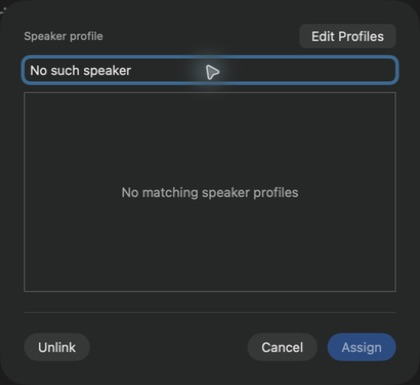
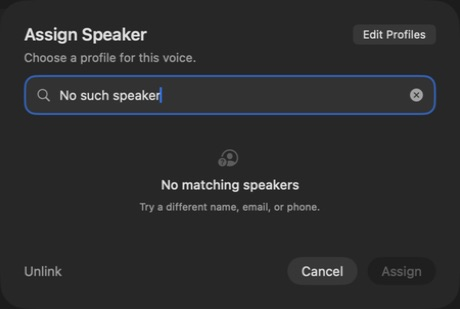
Refine speaker search with native macOS 26 styling

diff --git a/Sources/Stillnote/Views/SpeakerEditor.swift b/Sources/Stillnote/Views/SpeakerEditor.swift
@@ -33,8 +33,12 @@ struct SpeakerEditor: View {
     var body: some View {
         VStack(alignment: .leading, spacing: 20) {
             VStack(alignment: .leading, spacing: 10) {
-                HStack {
-                    Text("Speaker profile").font(.subheadline).foregroundStyle(.secondary)
+                HStack(alignment: .top, spacing: 16) {
+                    VStack(alignment: .leading, spacing: 5) {
+                        Text("Assign Speaker").font(.title2.weight(.semibold))
+                        Text("Choose a profile for this voice.")
+                            .font(.callout).foregroundStyle(.secondary)
+                    }
                     Spacer()
                     Button("Edit Profiles") {
                         model.requestedSpeakerProfileID = selectedProfile?.id
@@ -42,6 +46,7 @@ struct SpeakerEditor: View {
                         dismiss()
                         openSettings()
                     }
+                    .controlSize(.small)
                     .help("Open speaker profile settings")
                 }
                 if model.speakerProfiles.isEmpty {
@@ -49,56 +54,96 @@ struct SpeakerEditor: View {
                         .font(.callout).foregroundStyle(.secondary)
                         .frame(maxWidth: .infinity, minHeight: 120)
                 } else {
-                    TextField("Search by name, email, or phone", text: $profileSearch)
-                        .textFieldStyle(.roundedBorder)
-                        .accessibilityLabel("Search speaker profiles")
-                        .focused($searchFocused)
-                        .disabled(unavailable)
-                        .onChange(of: profileSearch) {
-                            // A hidden selection must never remain assignable after filtering.
-                            if !matchingProfiles.contains(where: { $0.id == selectedProfileID }) {
-                                selectedProfileID = nil
+                    HStack(spacing: 8) {
+                        Image(systemName: "magnifyingglass")
+                            .foregroundStyle(.secondary)
+                            .accessibilityHidden(true)
+                        TextField("Search name, email, or phone", text: $profileSearch)
+                            .textFieldStyle(.plain)
+                            .accessibilityLabel("Search speaker profiles")
+                            .focused($searchFocused)
+                        if !profileSearch.isEmpty {
+                            Button {
+                                profileSearch = ""
+                                searchFocused = true
+                            } label: {
+                                Image(systemName: "xmark.circle.fill")
+                                    .foregroundStyle(.secondary)
                             }
+                            .buttonStyle(.plain)
+                            .accessibilityLabel("Clear search")
                         }
+                    }
+                    .font(.body)
+                    .padding(12)
+                    .background(.quaternary.opacity(0.5), in: .rect(cornerRadius: 12))
+                    .overlay {
+                        RoundedRectangle(cornerRadius: 12)
+                            .strokeBorder(searchFocused ? Color.accentColor.opacity(0.65) : .clear, lineWidth: 2)
+                            .allowsHitTesting(false)
+                    }
+                    .disabled(unavailable)
+                    .onChange(of: profileSearch) {
+                        // A hidden selection must never remain assignable after filtering.
+                        if !matchingProfiles.contains(where: { $0.id == selectedProfileID }) {
+                            selectedProfileID = nil
+                        }
+                    }
                     List(selection: $selectedProfileID) {
                         ForEach(matchingProfiles) { profile in
-                            VStack(alignment: .leading, spacing: 3) {
-                                Text(profile.name)
-                                if !profile.email.isEmpty {
-                                    Text(profile.email).font(.caption).foregroundStyle(.secondary)
-                                } else if !profile.phone.isEmpty {
-                                    Text(profile.phone).font(.caption).foregroundStyle(.secondary)
+                            HStack(spacing: 12) {
+                                SpeakerAvatar(name: profile.name, color: .primary, size: 36)
+                                    .accessibilityHidden(true)
+                                VStack(alignment: .leading, spacing: 3) {
+                                    Text(profile.name).font(.body.weight(.medium)).lineLimit(1)
+                                    let contact = [profile.email, profile.phone].filter { !$0.isEmpty }.joined(separator: " · ")
+                                    if !contact.isEmpty {
+                                        Text(contact).font(.caption).foregroundStyle(.secondary).lineLimit(1)
+                                    }
+                                }
+                                Spacer(minLength: 8)
+                                if selectedProfileID == profile.id {
+                                    Image(systemName: "checkmark")
+                                        .font(.body.weight(.semibold))
+                                        .accessibilityHidden(true)
                                 }
                             }
-                            .padding(.vertical, 4)
+                            .frame(minHeight: 44)
+                            .padding(.vertical, 2)
                             .tag(profile.id)
                         }
                     }
-                    .listStyle(.bordered)
-                    .frame(height: 200)
+                    .listStyle(.inset)
+                    .scrollContentBackground(.hidden)
+                    .frame(height: matchingProfiles.isEmpty ? 112 : CGFloat(min(matchingProfiles.count, 5)) * 56 + 16)
                     .accessibilityLabel("Matching speaker profiles")
                     .disabled(unavailable)
                     .overlay {
                         if matchingProfiles.isEmpty {
-                            Text("No matching speaker profiles")
-                                .foregroundStyle(.secondary)
-                                .allowsHitTesting(false)
+                            VStack(spacing: 8) {
+                                Image(systemName: "person.crop.circle.badge.questionmark")
+                                    .font(.title2).foregroundStyle(.tertiary)
+                                Text("No matching speakers").font(.body.weight(.medium))
+                                Text("Try a different name, email, or phone.")
+                                    .font(.caption).foregroundStyle(.secondary)
+                            }
+                            .allowsHitTesting(false)
                         }
                     }
                 }
             }
             if let error { Text(error).foregroundStyle(.red).font(.callout) }
-            Divider()
             HStack(spacing: 10) {
                 if meeting?.speakerProfiles[speakerID] != nil {
                     Button("Unlink") { assign(nil) }
+                        .buttonStyle(.borderless)
                         .help("Remove the profile link and keep the meeting’s speaker name")
                 }
                 if saving { ProgressView().controlSize(.small) }
                 Spacer()
                 Button("Cancel", role: .cancel) { dismiss() }
                 Button("Assign") { assign(selectedProfileID) }
-                    .buttonStyle(.borderedProminent)
+                    .primaryActionStyle()
                     .disabled(selectedProfile == nil)
                     .keyboardShortcut(.defaultAction)
             }
@@ -106,7 +151,7 @@ struct SpeakerEditor: View {
             .disabled(unavailable)
         }
         .padding(24)
-        .frame(width: 420)
+        .frame(width: 460)
         .interactiveDismissDisabled(saving)
         .onAppear {
             selectedProfileID = meeting?.speakerProfiles[speakerID]
